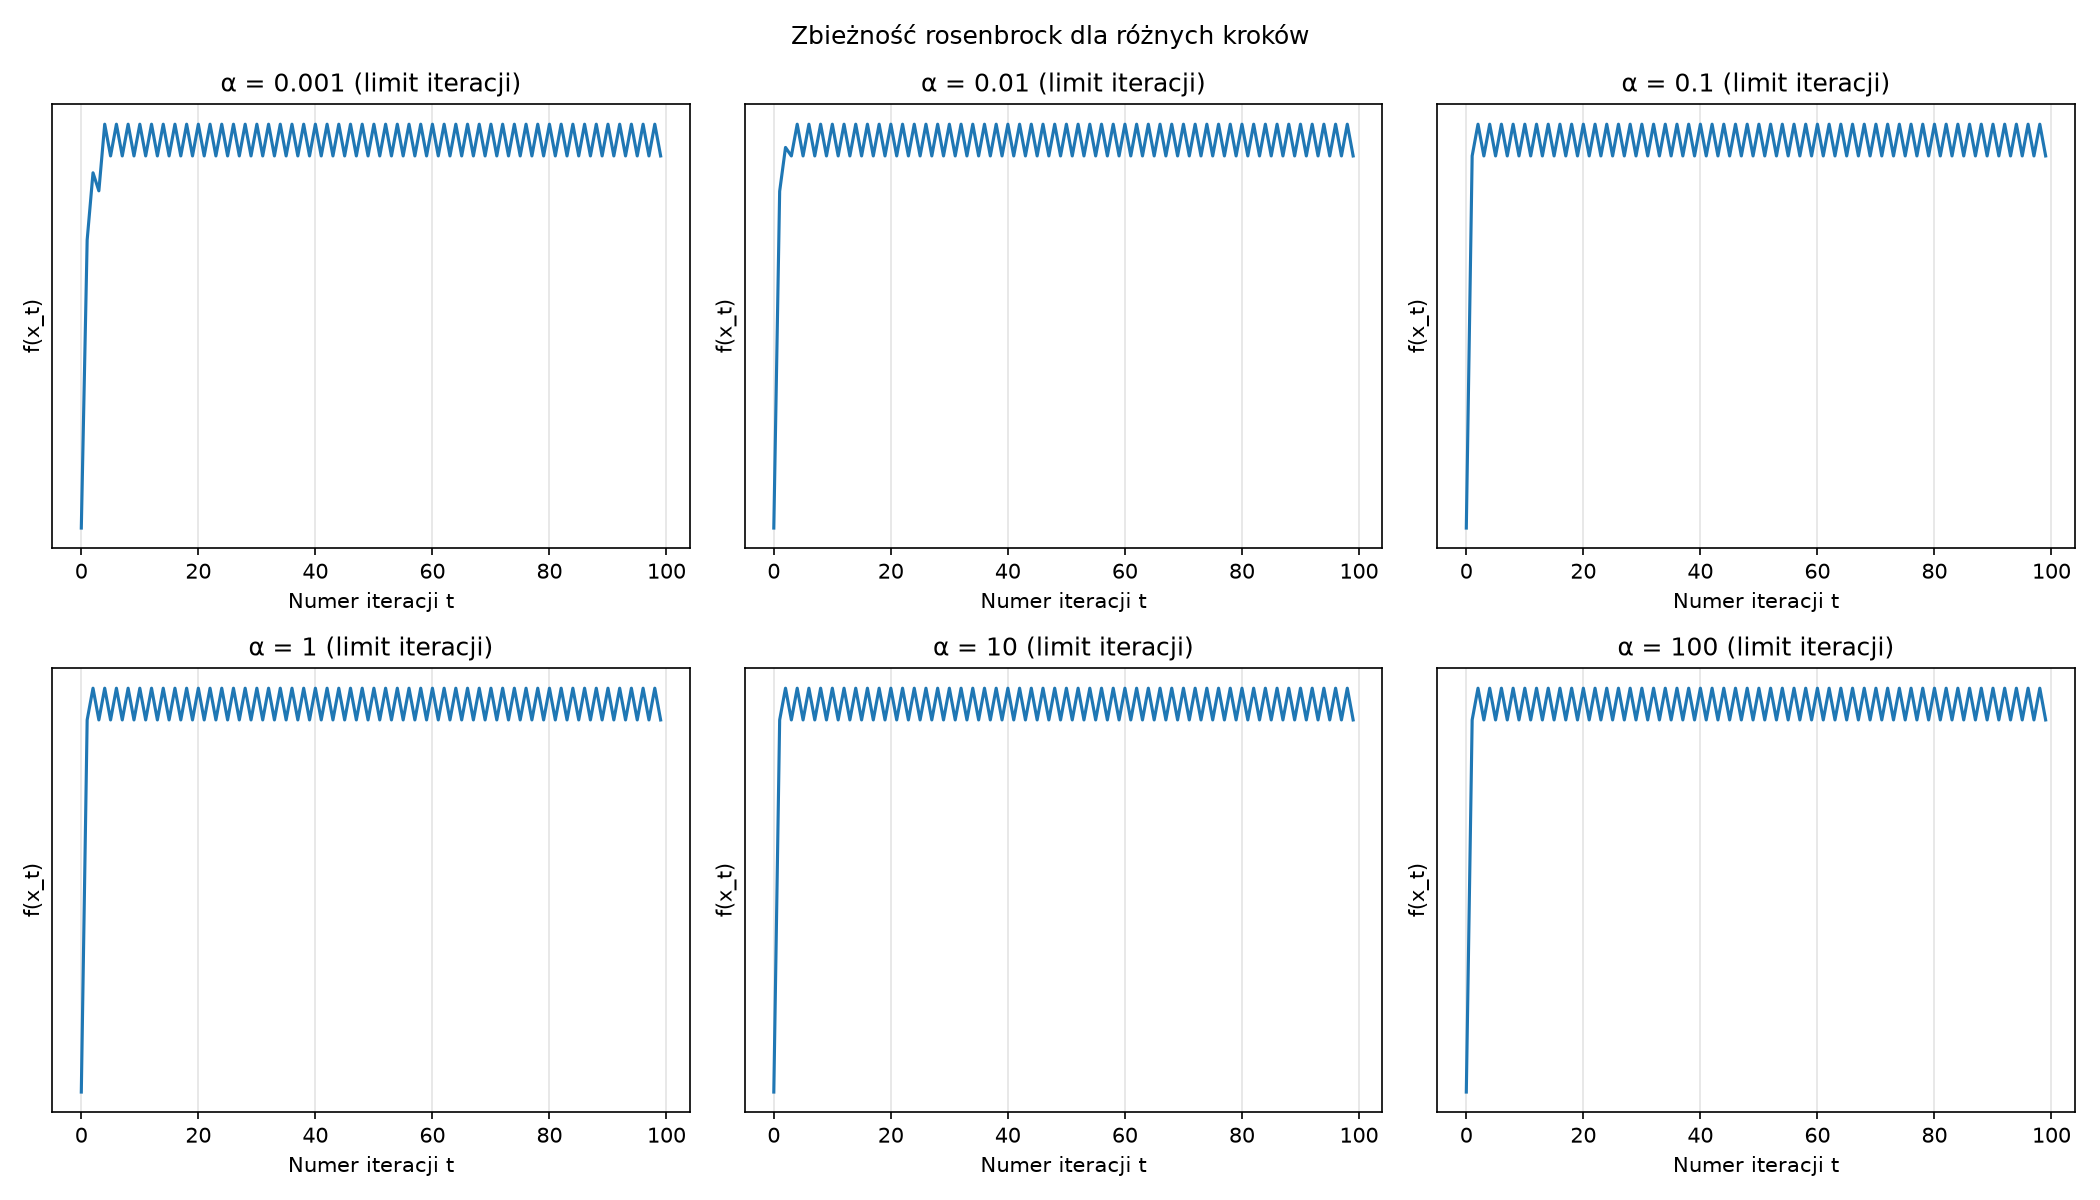
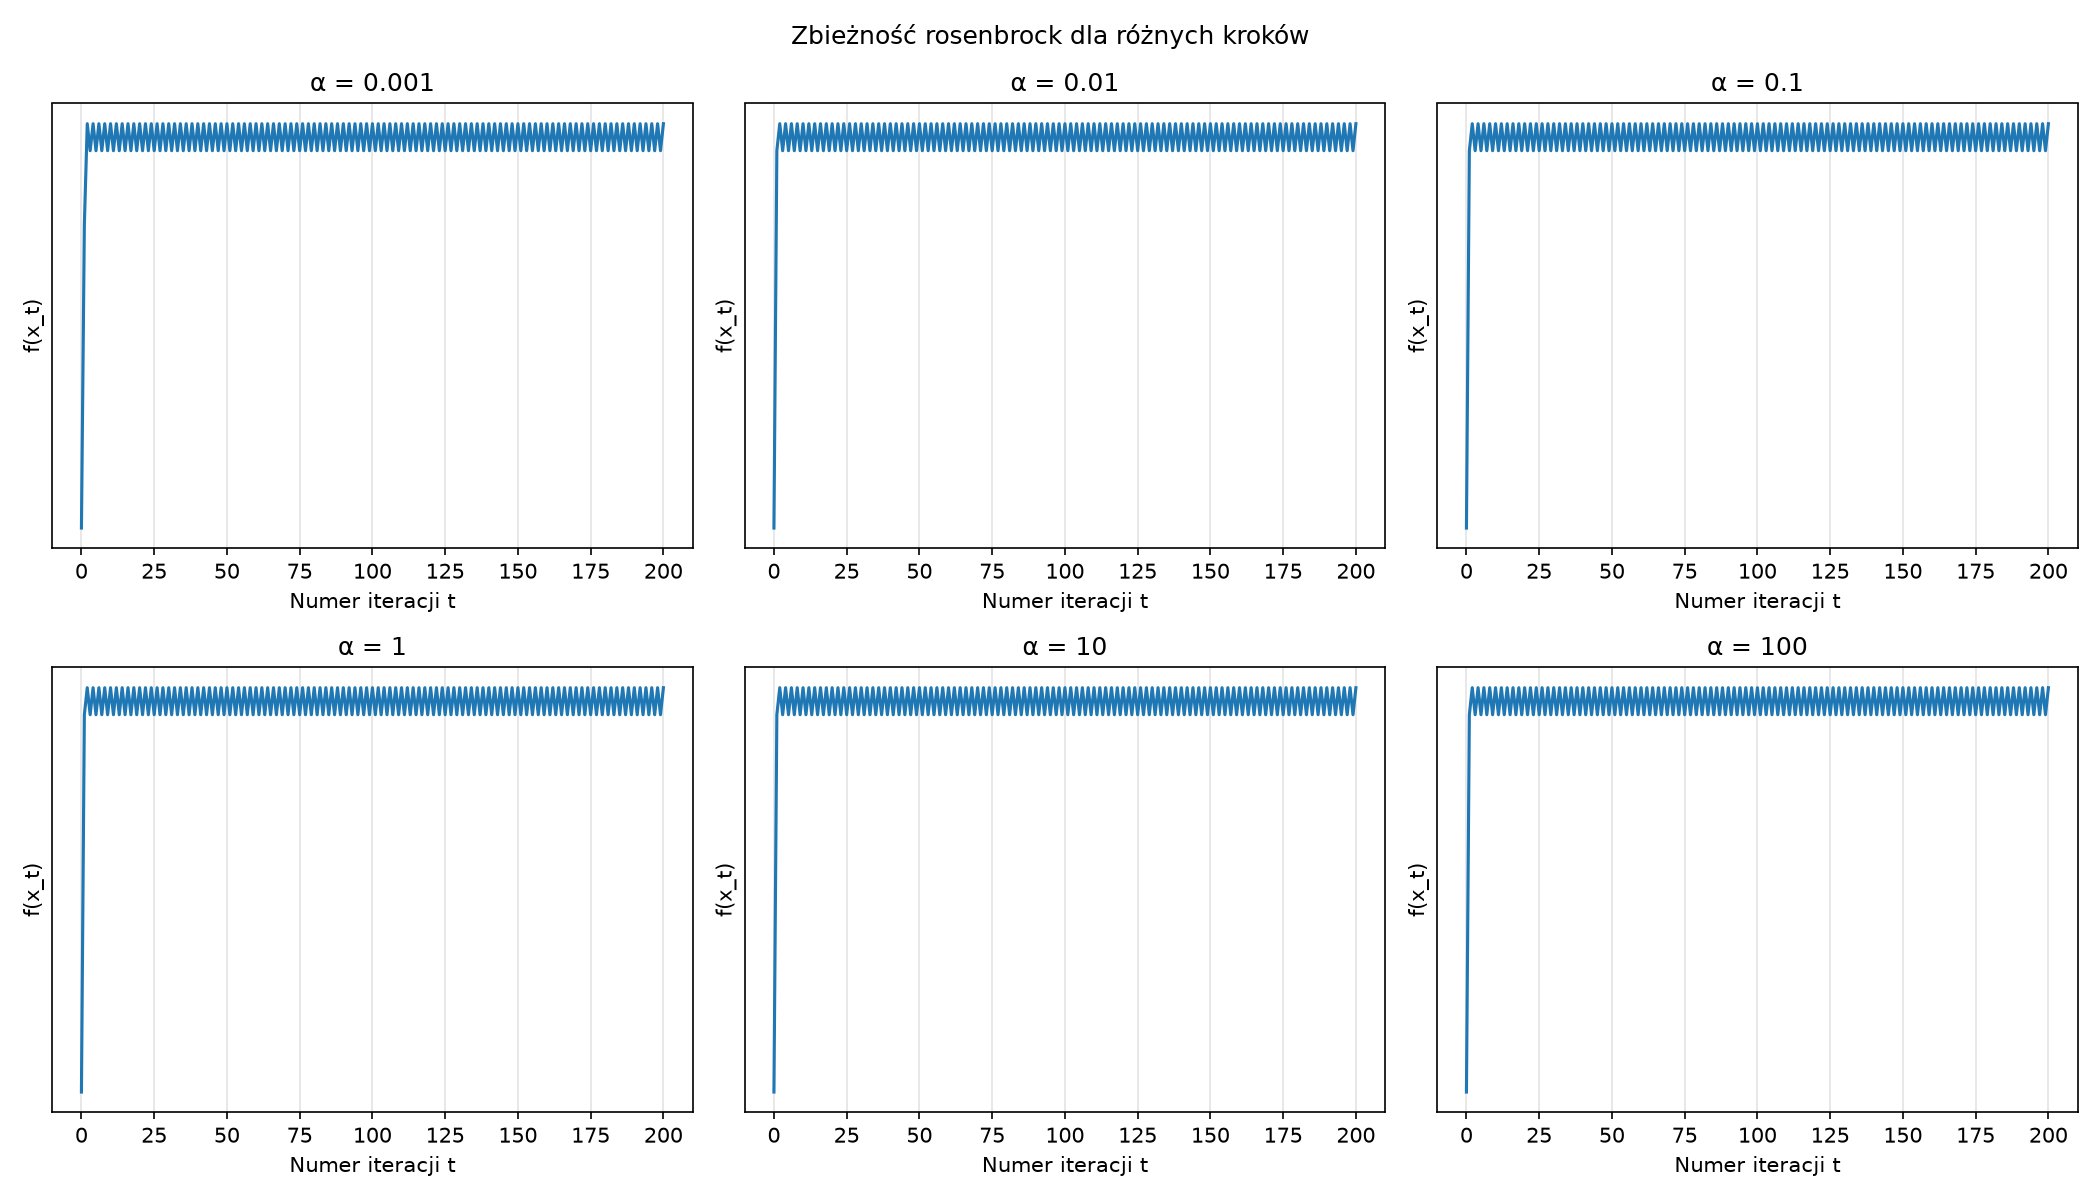
Wersja końcowa

diff --git a/Lab1/lab1.py b/Lab1/lab1.py
@@ -38,7 +38,7 @@ def gradient(f, x, h=1e-6, bounds=None):
     return g
 
 
-def solver(eval_func, x0, krok, max_iter=5000, tol=1e-6):
+def solver(eval_func, x0, krok, max_iter=200, tol=1e-6):
     x = np.array(x0, dtype=float).copy()
     lower = np.full_like(x, LOWER_BOUND)
     upper = np.full_like(x, UPPER_BOUND)
@@ -63,25 +63,17 @@ def solver(eval_func, x0, krok, max_iter=5000, tol=1e-6):
         x_nowy = np.clip(x - krok * g, lower, upper)
 
         if np.allclose(x, x_nowy, atol=1e-8, rtol=1e-8):
-            powod = "brak ruchu - uderzenie w granice dziedziny"
+            powod = "uderzenie w granice dziedziny"
             break
 
         #  Obliczenie wartości funkcji dla nowego punktu
         f_nowy = float(eval_func(x_nowy))
-
-        #  Warunek 2: Mała zmiana wartości funkcji
-        # if abs(f_nowy - fx) < 1e-7:
-        #     powod = "mała zmiana f(x)"
-        #     x = x_nowy
-        #     historia.append(f_nowy)
-        #     break
 
         x = x_nowy
         fx = f_nowy
         historia.append(fx)
 
     return x, historia, powod
-
 
 
 if __name__ == "__main__":
@@ -106,9 +98,8 @@ if __name__ == "__main__":
                 f"iteracje={len(historia)-1} | czas={czas:.4f} s | stop: {powod}"
             )
 
-            #ax.plot(range(len(historia)), historia, color="tab:blue", linewidth=1.5)
-            ax.plot(range(len(historia[:100])), historia[:100], color="tab:blue")
-            ax.set_title(f"α = {krok:g} ({powod})")
+            ax.plot(range(len(historia)), historia, color="tab:blue", linewidth=1.5)
+            ax.set_title(f"α = {krok:g}")
             ax.set_yscale("symlog", linthresh=1e-8)
             ax.set_xlabel("Numer iteracji t")
             ax.set_ylabel("f(x_t)")
